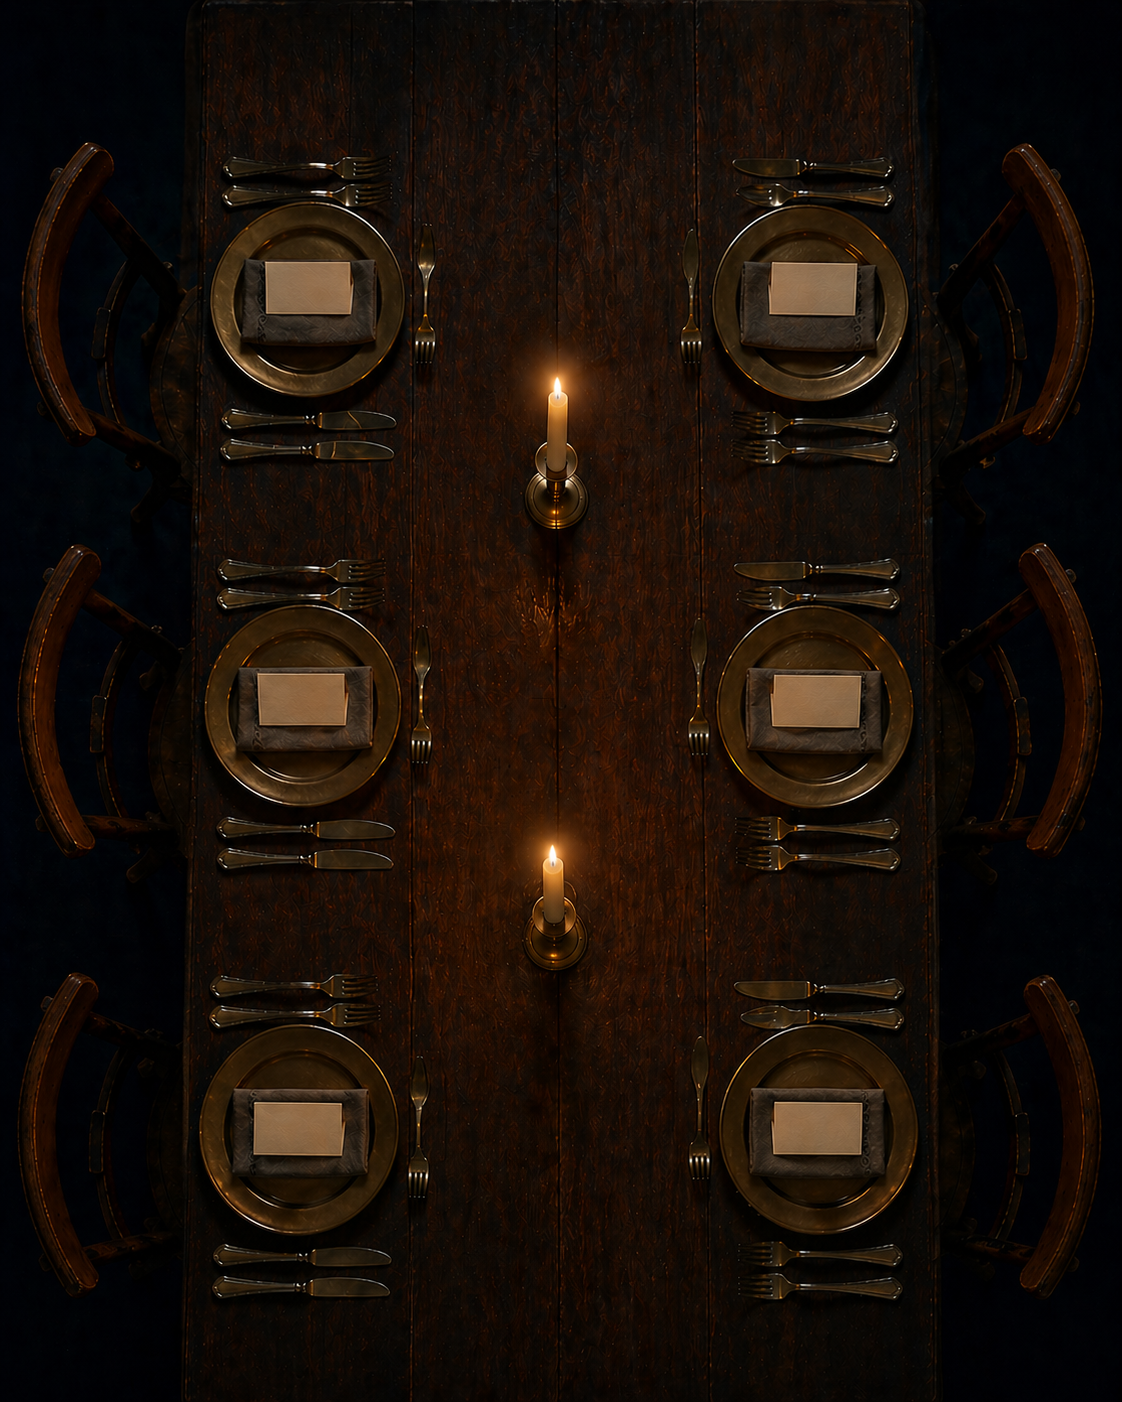
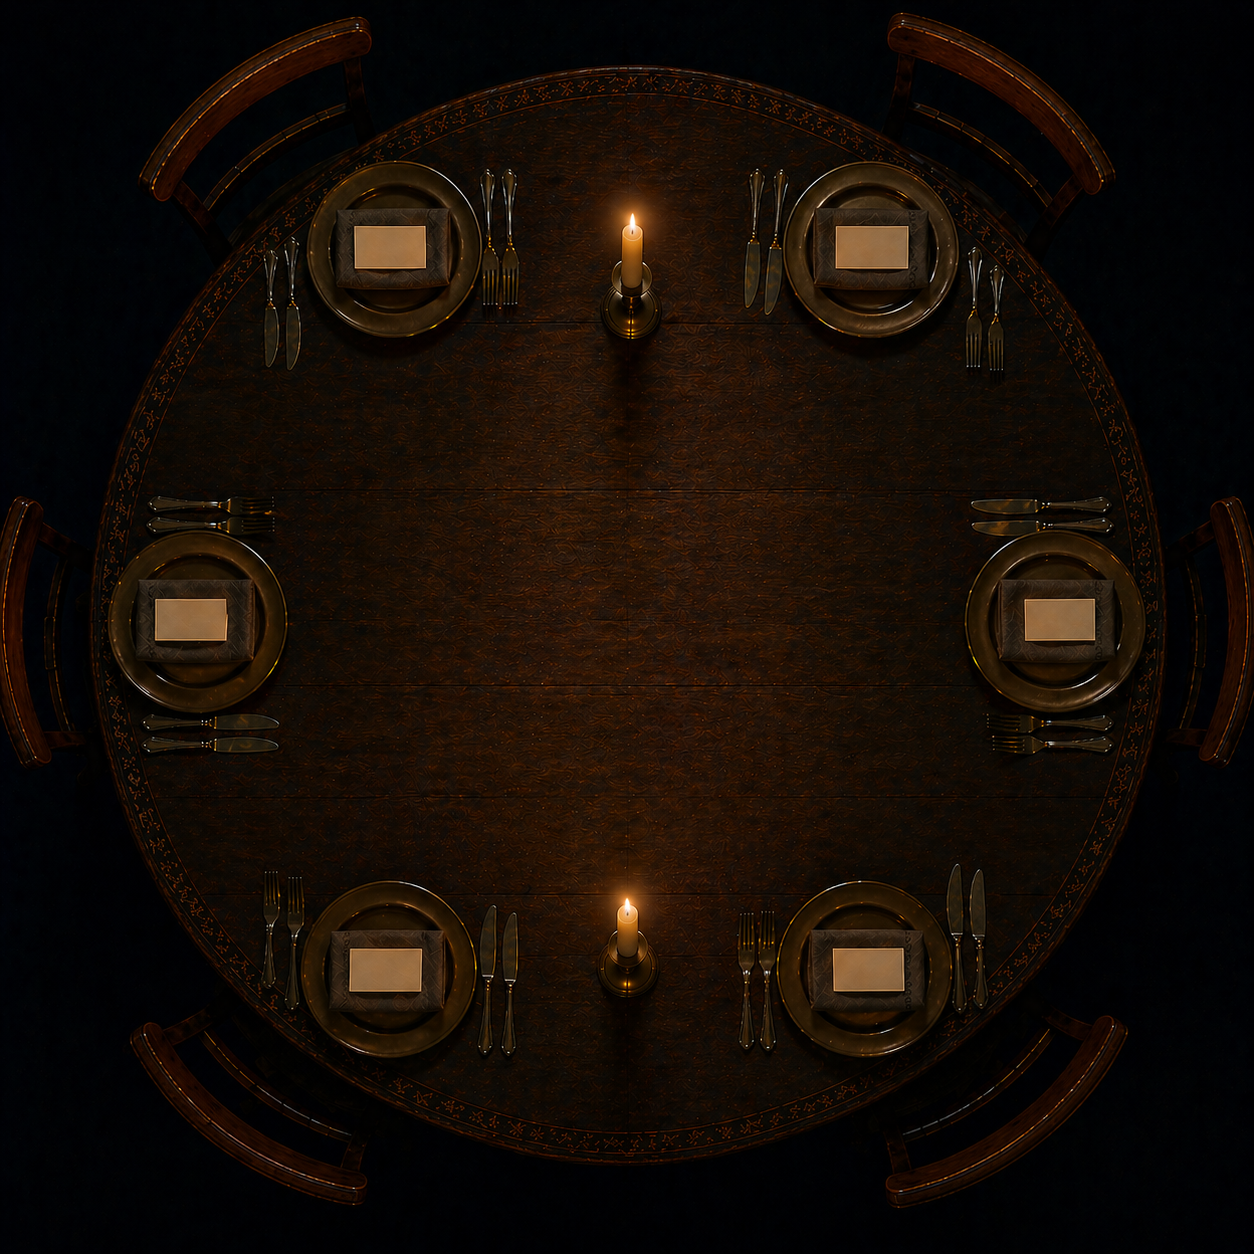
Vespera V14 : Nouvelle table ronde avec espace central degage
L'utilisateur a fait regenerer la table par Daly avec :
- Format carre 1:1 (au lieu de 4:5)
- Table ronde au lieu de rectangulaire
- 6 places en cercle horloge (au lieu de 3+3 sur les cotes)
- 2 bougies bien ecartees verticalement (haut + bas)
- Grand espace central completement degage (un tiers de la table)

Cela libere la zone centrale pour afficher la Question du soir,
les murmures, et les indications de V dans une zone bien visible.

CHANGEMENTS CSS :

1. .table-surface
   - aspect-ratio: 4 / 5 → 1 / 1 (carre)
   - Image remplacee dans assets/dinner-table.png

2. Positions des 6 sieges en cercle (etait en 3+3 grille)
   pos 0 (11h, haut-gauche)   : top 21%, left 32% → MARC
   pos 1 (1h, haut-droite)    : top 21%, left 68% → THEO
   pos 2 (9h, milieu-gauche)  : top 50%, left 17% → CAMILLE
   pos 3 (7h, bas-gauche)     : top 79%, left 32% → VOUS
   pos 4 (3h, milieu-droite)  : top 50%, left 83% → INES
   pos 5 (5h, bas-droite)     : top 79%, left 68% → KARIM

3. Centre cliquable
   - width: 38% → 50% (profite du grand espace degage)
   - Plus visible, plus accueillant pour la Question du soir

4. Lisibilite des noms RENFORCEE
L'utilisateur a insiste pour que les noms soient bien visibles cette
fois. J'ai augmente le contraste au max :
   - color: #1F1410 → #1A0E08 (presque pur noir)
   - font-size: 13px → 14px
   - font-weight: 600 → 700 (bold)
   - letter-spacing: 0.02em → 0.01em (tighter)
   - Toujours pas de text-shadow blanche (qui delavait avant)
[…]

diff --git a/index.html b/index.html
@@ -128,11 +128,11 @@
   .table-surface {
     position: relative;
     width: 100%;
-    aspect-ratio: 4 / 5;
+    aspect-ratio: 1 / 1;
     max-width: 380px;
     max-height: 60vh;
     margin: 0 auto;
-    /* Image de fond : table en bois sombre avec 6 place cards ivoire */
+    /* Image de fond : table ronde en bois sombre, 6 places en cercle, 2 bougies écartées verticalement */
     background-image: url('assets/dinner-table.png');
     background-size: cover;
     background-position: center;
@@ -148,21 +148,21 @@
     box-shadow: 0 8px 50px rgba(80,52,28,0.3);
   }
 
-  /* Pas de halo central en image — on supprime ::before */
+  /* Pas de halo central en image */
   .table-surface::before { content: none; }
 
-  /* Centre cliquable : Question du soir, message contemplatif — entre les 2 bougies */
+  /* Centre cliquable : bien placé dans le grand espace dégagé entre les 2 bougies */
   .table-center {
     position: absolute;
     top: 50%; left: 50%;
     transform: translate(-50%, -50%);
-    width: 38%;
+    width: 50%;
     aspect-ratio: 1.4;
     background: rgba(15, 12, 8, 0.55);
     border: 1px solid rgba(212,184,112,0.35);
     color: inherit;
     cursor: pointer;
-    padding: 10px 12px;
+    padding: 12px 14px;
     display: flex; align-items: center; justify-content: center;
     transition: all 0.4s;
     border-radius: 2px;
@@ -175,23 +175,23 @@
     text-align: center;
     font-family: 'Fraunces', serif;
     font-style: italic;
-    font-size: 12px;
+    font-size: 13px;
     color: #EDE8DD;
     line-height: 1.45;
   }
   #salon.day .table-center-content { color: #2C2823; }
-  .table-center-content .center-label { display: block; font-family: 'Inter', sans-serif; font-style: normal; font-size: 8px; color: #D4B870; letter-spacing: 0.3em; margin-bottom: 6px; }
+  .table-center-content .center-label { display: block; font-family: 'Inter', sans-serif; font-style: normal; font-size: 9px; color: #D4B870; letter-spacing: 0.3em; margin-bottom: 6px; }
   #salon.day .table-center-content .center-label { color: #B87333; }
-  .table-center-content .center-cta { display: block; margin-top: 8px; font-family: 'Inter', sans-serif; font-style: normal; font-size: 8px; color: #D4B870; letter-spacing: 0.3em; }
+  .table-center-content .center-cta { display: block; margin-top: 8px; font-family: 'Inter', sans-serif; font-style: normal; font-size: 9px; color: #D4B870; letter-spacing: 0.3em; }
   #salon.day .table-center-content .center-cta { color: #B87333; }
 
-  /* === COUCHE DES SIÈGES (place cards ivoire) === */
+  /* === COUCHE DES SIÈGES (place cards ivoire en cercle) === */
   .seats-layer { position: absolute; inset: 0; pointer-events: none; }
   .seat {
     position: absolute;
     /* Zone tap qui couvre la place card ivoire */
-    width: 22%;
-    height: 11%;
+    width: 18%;
+    height: 10%;
     pointer-events: auto;
     transform: translate(-50%, -50%);
     cursor: pointer;
@@ -210,33 +210,33 @@
   .seat-name {
     font-family: 'Cormorant Garamond', 'Cormorant', 'Fraunces', serif;
     font-style: italic;
-    font-weight: 600;
-    font-size: 13px;
-    letter-spacing: 0.02em;
-    color: #1F1410;
+    font-weight: 700;
+    font-size: 14px;
+    letter-spacing: 0.01em;
+    color: #1A0E08;
     text-align: center;
     line-height: 1.1;
     text-transform: none;
-    /* Pas de text-shadow pour garder le noir bien franc */
+    /* Pas de text-shadow pour garder le noir bien franc sur l'ivoire */
     pointer-events: none;
     padding: 0 4px;
     max-width: 100%;
     overflow: hidden;
   }
-  .seat-self .seat-name { color: #2A1A0F; font-weight: 700; }
+  .seat-self .seat-name { color: #1A0E08; font-weight: 700; }
   .seat-veiled .seat-name { color: #6B5A45; opacity: 0.55; }
   .seat:active .seat-name {
     color: #5A2E0F;
   }
 
-  /* Positions des 6 cartes ivoire — calibrées sur l'image */
-  /* Layout : 3 lignes (haut/milieu/bas) × 2 colonnes (gauche/droite) */
-  .seat-pos-0 { top: 19%; left: 27%; }   /* haut-gauche */
-  .seat-pos-1 { top: 19%; left: 73%; }   /* haut-droite */
-  .seat-pos-2 { top: 47%; left: 27%; }   /* milieu-gauche */
-  .seat-pos-3 { top: 78%; left: 27%; }   /* bas-gauche — joueur */
-  .seat-pos-4 { top: 47%; left: 73%; }   /* milieu-droite */
-  .seat-pos-5 { top: 78%; left: 73%; }   /* bas-droite */
+  /* Positions des 6 places sur la table ronde — disposition en cercle */
+  /* L'image fait 1:1 carré, places en cercle régulier */
+  .seat-pos-0 { top: 21%; left: 32%; }   /* 11h — haut-gauche */
+  .seat-pos-1 { top: 21%; left: 68%; }   /* 1h — haut-droite */
+  .seat-pos-2 { top: 50%; left: 17%; }   /* 9h — milieu-gauche */
+  .seat-pos-3 { top: 79%; left: 32%; }   /* 7h — bas-gauche, joueur */
+  .seat-pos-4 { top: 50%; left: 83%; }   /* 3h — milieu-droite */
+  .seat-pos-5 { top: 79%; left: 68%; }   /* 5h — bas-droite */
 
   .table-hint { text-align: center; padding: 18px 24px 0; font-family: 'Inter', sans-serif; font-size: 11px; color: #A8A095; letter-spacing: 0.1em; font-style: italic; }
   #salon.day .table-hint { color: #6B6358; }
